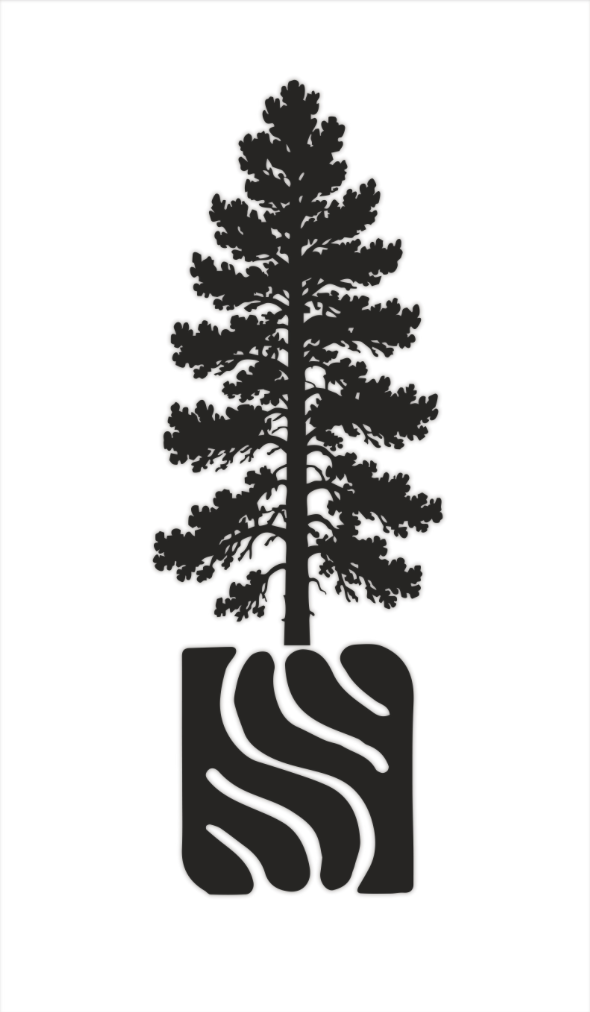
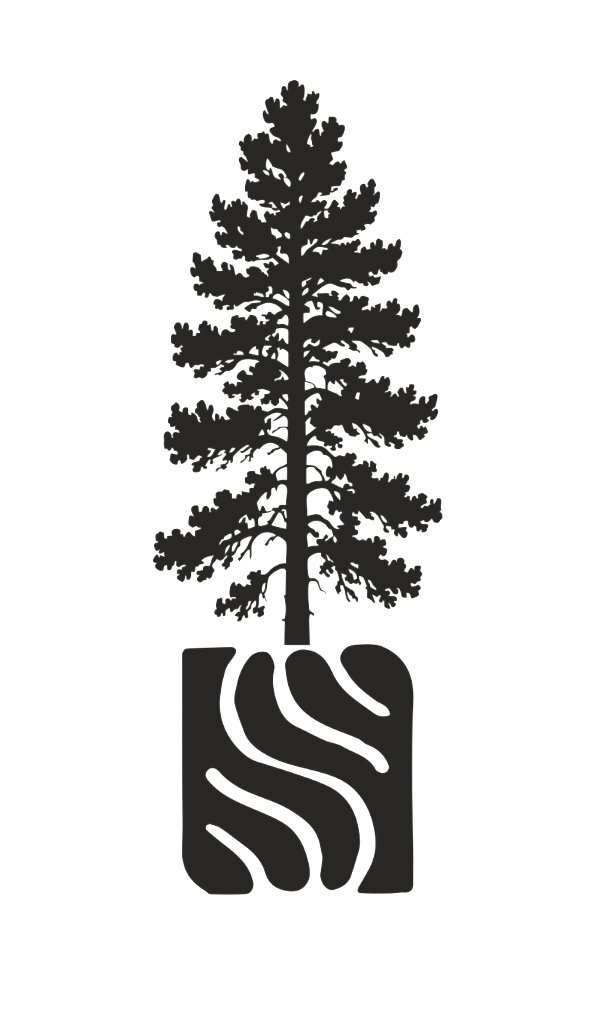
Add new images and update email templates for enhanced personalization
This commit introduces a new image, 'single-pine-tree-white.png', and updates the existing 'single-pine-tree.png'. The `EmailHeader` component has been modified to use the new header image. Additionally, the `ConfirmationEmail`, `GuidedConfirmation`, and `SocialConfirmation` templates have been updated to improve the intro text and session details, providing a more tailored experience for users. These changes aim to enhance the visual appeal and personalization of email communications.

diff --git a/apps/integrations/src/emails/components/ConfirmationEmail.tsx b/apps/integrations/src/emails/components/ConfirmationEmail.tsx
@@ -5,19 +5,20 @@ import { button, COLORS, type EmailBackground, EmailLayout, heading, text } from
 const headerImage = {
   width: '100%',
   height: 'auto',
+  // maxWidth: '250px',
   borderRadius: '8px',
-  margin: '0 0 24px',
+  margin: '24px auto',
 };
 
 const detailsSection = {
-  backgroundColor: COLORS.black,
+  backgroundColor: COLORS.creme,
   borderRadius: '8px',
   margin: '0 0 24px',
   padding: '20px 24px',
 };
 
 const labelStyle = {
-  color: COLORS.gold,
+  color: COLORS.red,
   fontSize: '12px',
   letterSpacing: '0.06em',
   margin: '0 0 2px',
@@ -25,7 +26,7 @@ const labelStyle = {
 };
 
 const valueStyle = {
-  color: COLORS.creme,
+  color: COLORS.black,
   fontSize: '16px',
   fontWeight: 600,
   margin: '0 0 14px',
@@ -85,7 +86,7 @@ export function ConfirmationEmail({
         <Text style={{ ...valueStyle, margin: 0 }}>{location}</Text>
       </Section>
 
-      <Text style={text}>If you need to update your booking, cancel or chat with us, just reply to this email.</Text>
+      <Text style={text}>If you need to update your booking or chat with us, just reply to this email.</Text>
       <Text style={text}>See you soon!</Text>
     </EmailLayout>
   );
@@ -94,8 +95,8 @@ export function ConfirmationEmail({
 export const sampleConfirmationProps: ConfirmationEmailProps = {
   firstName: 'Alex',
   sessionTitle: 'Signature Guided Class',
-  dateLabel: 'Wed, February 12, 2026',
-  timeLabel: '6:00 PM - 8:00 PM',
-  location: 'Pyre - 1000 Westover Hills Blvd, Richmond, VA 23225',
+  dateLabel: 'Sat, June 20, 2026',
+  timeLabel: '10:00 AM - 12:00 PM',
+  location: '1000 Westover Hills Blvd, Richmond, VA 23225',
   manageUrl: 'https://momence.com/sign-in',
 };

diff --git a/apps/integrations/src/emails/templates/GuidedConfirmation.tsx b/apps/integrations/src/emails/templates/GuidedConfirmation.tsx
@@ -7,13 +7,13 @@ export function GuidedConfirmation(props: ConfirmationEmailProps) {
     <ConfirmationEmail
       {...props}
       preview={`You're booked for ${props.sessionTitle}`}
-      headingText="Your guided session is booked"
+      headingText="You're in!"
       headerImageUrl={`${ASSET_BASE}/guided-confirmation-header.jpg`}
-      intro="You're all set for your guided session. A facilitator will lead you through the sauna and cold plunge rounds — just arrive a few minutes early so you can settle in."
+      intro={`You're all set for ${props.sessionTitle} on ${props.dateLabel} from ${props.timeLabel}. \n\nA facilitator will lead you through the experience. Please arrive 10-15 minutes early so you have time to settle in.`}
     />
   );
 }
 
-GuidedConfirmation.PreviewProps = {...sampleConfirmationProps, sessionImageUrl: "https://images.momence.com/h/169530/session-template-banner/d0db75ba-775b-4335-84f8-2e6a7f28b8a3.webp"};
+GuidedConfirmation.PreviewProps = {...sampleConfirmationProps, sessionTitle: "Signature Guided Class", sessionImageUrl: "https://images.momence.com/h/169530/session-template-banner/d0db75ba-775b-4335-84f8-2e6a7f28b8a3.webp"};
 
 export default GuidedConfirmation;

diff --git a/apps/integrations/src/emails/templates/SocialConfirmation.tsx b/apps/integrations/src/emails/templates/SocialConfirmation.tsx
@@ -6,10 +6,11 @@ export function SocialConfirmation(props: ConfirmationEmailProps) {
   return (
     <ConfirmationEmail
       {...props}
+      background="lamps"
       preview={`You're booked for ${props.sessionTitle}`}
-      headingText="Your social session is booked"
+      headingText="You're in!"
       headerImageUrl={`${ASSET_BASE}/social-confirmation-header.jpg`}
-      intro="You're in! Social sessions are a lively, communal sweat — bring a friend or come meet some. Arrive a few minutes early to get changed and grab a spot."
+      intro={`You're all set for ${props.sessionTitle} on ${props.dateLabel} from ${props.timeLabel}. \n\nSocial sessions are a lively, communal sweat - bring a friend or come meet one.`}
     />
   );
 }
@@ -17,7 +18,7 @@ export function SocialConfirmation(props: ConfirmationEmailProps) {
 SocialConfirmation.PreviewProps = {
   ...sampleConfirmationProps,
   sessionImageUrl: "https://images.momence.com/h/169530/session-banner/9fec582a-df63-40f2-9754-b4c69f176423.jpeg",
-  sessionTitle: 'Social Sauna + DJ',
+  sessionTitle: 'Social Evening w/ Boy Lichtenstein',
 };
 
 export default SocialConfirmation;

diff --git a/apps/integrations/src/emails/components/EmailFooter.tsx b/apps/integrations/src/emails/components/EmailFooter.tsx
@@ -10,9 +10,12 @@ const footer = {
   textAlign: 'center' as const,
 };
 
-const logoStrip = {
-  width: '100%',
-  height: 'auto',
+const treeBand = {
+  height: '96px',
+  backgroundImage: `url(${ASSET_BASE}/pine-tree-repeat-creme.png)`,
+  backgroundRepeat: 'repeat-x',
+  backgroundPosition: 'center',
+  backgroundSize: 'auto 96px',
   margin: '40px 0 32px',
 };
 
@@ -51,13 +54,7 @@ interface EmailFooterProps {
 export function EmailFooter({ unsubscribeUrl, preferencesUrl }: EmailFooterProps) {
   return (
     <Section style={footer}>
-      <Img
-        src={`${ASSET_BASE}/logo-strip-creme.png`}
-        width="512"
-        height="32"
-        alt=""
-        style={logoStrip}
-      />
+      <Section role="presentation" style={treeBand} />
       <Link href={INSTAGRAM_URL}>
         <Img
           src={`${ASSET_BASE}/instagram-badge-creme.png`}

diff --git a/apps/integrations/src/emails/templates/GeneralConfirmation.tsx b/apps/integrations/src/emails/templates/GeneralConfirmation.tsx
@@ -9,7 +9,7 @@ export function GeneralConfirmation(props: ConfirmationEmailProps) {
       preview={`You're booked for ${props.sessionTitle}`}
       headingText="You're booked"
       headerImageUrl={`${ASSET_BASE}/confirmation-header.jpg`}
-      intro="You're all set. We've got your session reserved — arrive anytime during the first hour of your session."
+      intro={`You're all set for ${props.sessionTitle} on ${props.dateLabel} from ${props.timeLabel}. \n\nWe've got your session reserved. Arrive anytime during the first hour of your session.`}
     />
   );
 }

diff --git a/apps/integrations/src/emails/components/EmailHeader.tsx b/apps/integrations/src/emails/components/EmailHeader.tsx
@@ -14,7 +14,7 @@ export function EmailHeader() {
   return (
     <Section style={header}>
       <Link href="https://pyresauna.com">
-        <Img src={`${ASSET_BASE}/logo-header-creme.png`} width="120" alt="Pyre" style={logo} />
+        <Img src={`${ASSET_BASE}/single-pine-tree-white.png`} width="120" alt="Pyre" style={logo} />
       </Link>
     </Section>
   );
